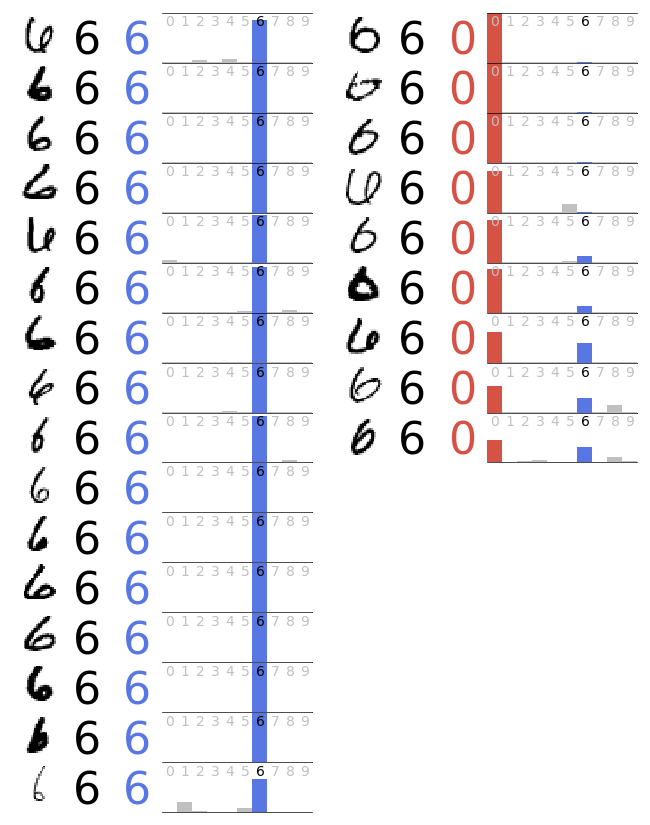
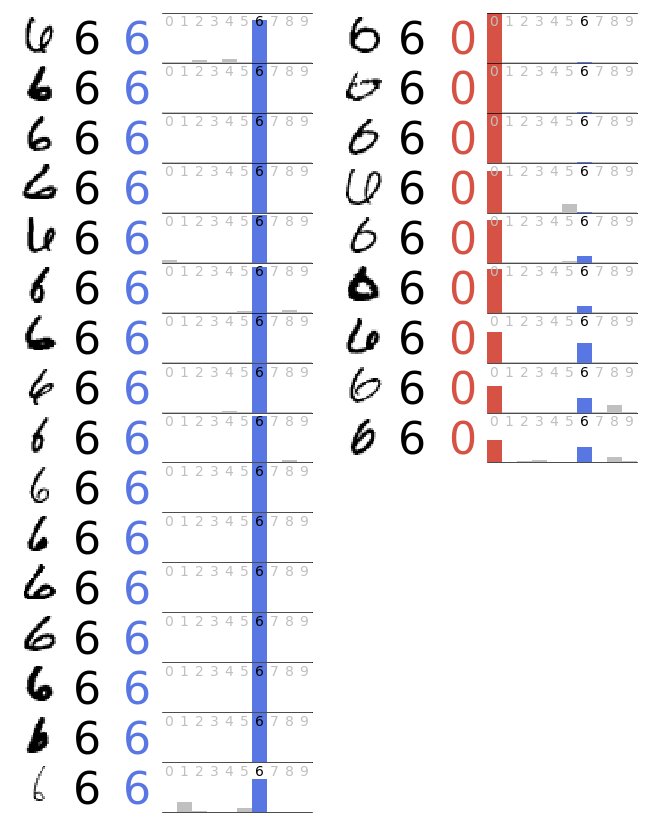
finetune horizontal alignment of probability labels

diff --git a/mnist.py b/mnist.py
@@ -287,7 +287,9 @@ def _plot_probabilities(ax, label, pred, prob):
     for digit in _DIGITS:
         color = "black" if digit == label else _OTHER_COLOR
         label_text = format(digit, "d")
-        ax.text(digit, 0.8, label_text, color=color, ha="center", va="center")
+        ax.text(
+            digit - 0.07, 0.8, label_text, color=color,
+            ha="center", va="center")
 
 ####
 # Color scheme
